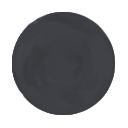
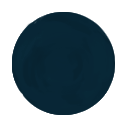
Almost recolored energy orbs
Need to make the borders on the cards a slightly different color, doesn't look good right now.

diff --git a/src/main/java/stormcrowmod/character/PilotCharacter.java b/src/main/java/stormcrowmod/character/PilotCharacter.java
@@ -218,13 +218,13 @@ public class PilotCharacter extends CustomPlayer {
     public void doCharSelectScreenSelectEffect() {
         //This occurs when you click the character's button in the character select screen.
         //See SoundMaster for a full list of existing sound effects, or look at BaseMod's wiki for adding custom audio.
-        CardCrawlGame.sound.playA("ATTACK_DAGGER_2", MathUtils.random(-0.2F, 0.2F));
+        CardCrawlGame.sound.playA("ATTACK_FLAME_BARRIER", MathUtils.random(-0.2F, 0.2F));
         CardCrawlGame.screenShake.shake(ScreenShake.ShakeIntensity.MED, ScreenShake.ShakeDur.SHORT, false);
     }
     @Override
     public String getCustomModeCharacterButtonSoundKey() {
         //Similar to doCharSelectScreenSelectEffect, but used for the Custom mode screen. No shaking.
-        return "ATTACK_DAGGER_2";
+        return "ATTACK_FLAME_BARRIER";
     }
 
     //Don't adjust these four directly, adjust the contents of the CharacterStrings.json file.

diff --git a/src/main/java/stormcrowmod/cards/attack/BoostKick.java b/src/main/java/stormcrowmod/cards/attack/BoostKick.java
@@ -36,7 +36,7 @@ public class BoostKick extends BaseCard {
 
     @Override
     public void use(AbstractPlayer p, AbstractMonster m) {
-        addToBot(new DamageAction(m, new DamageInfo(p, damage, DamageInfo.DamageType.NORMAL), AbstractGameAction.AttackEffect.SLASH_VERTICAL));
+        addToBot(new DamageAction(m, new DamageInfo(p, damage, DamageInfo.DamageType.NORMAL), AbstractGameAction.AttackEffect.BLUNT_LIGHT));
         addToBot(new CreateThrusterAction(1));
     }
 
